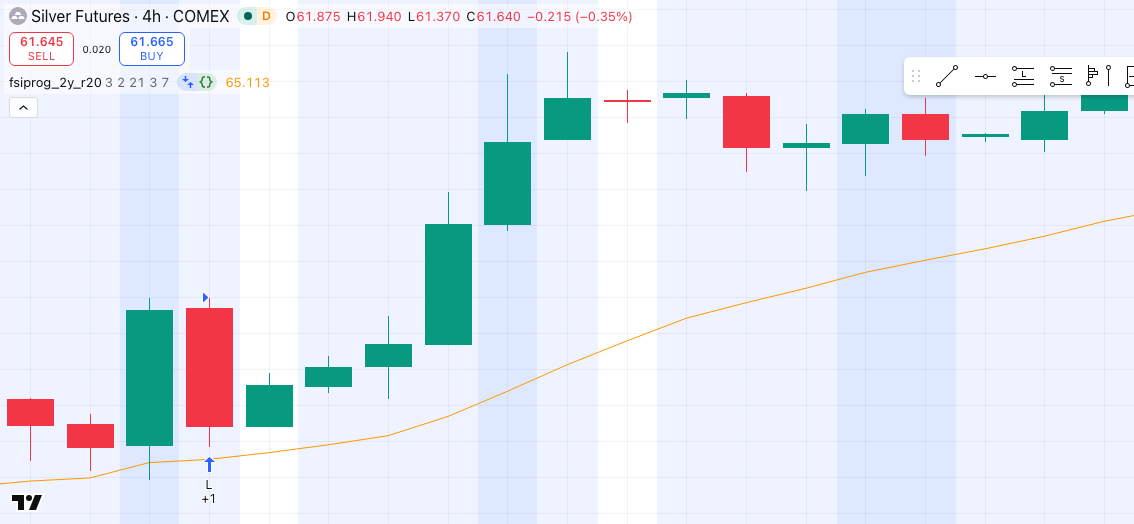
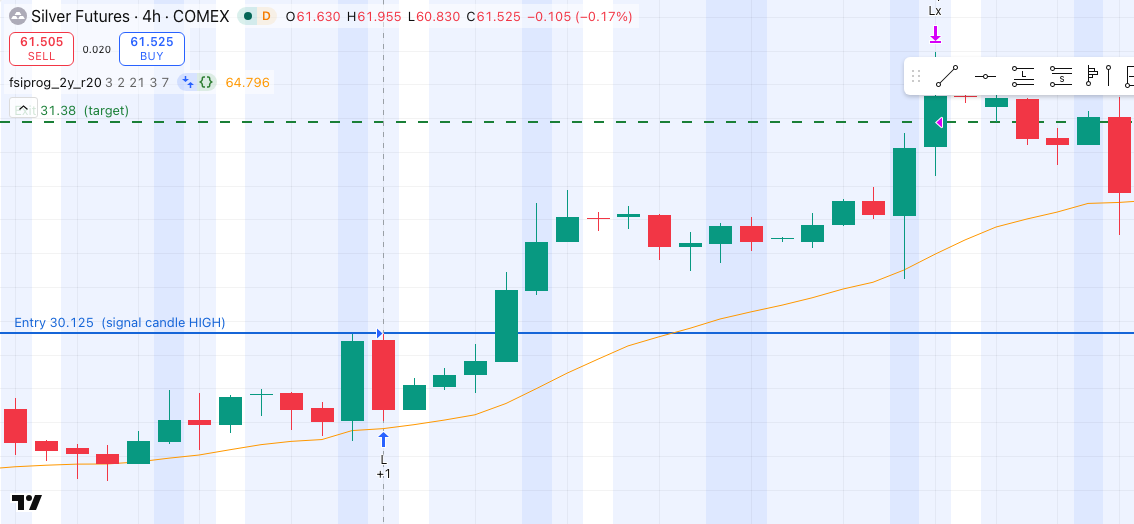
Annotate trade screenshots with entry/exit price lines + signal-candle tag; add entry-mechanics explanation

diff --git a/session-futures.html b/session-futures.html
@@ -110,10 +110,11 @@
 <p class="sub">Continuous futures have no clean second data feed (each vendor stitches rollovers differently), so this 2-engine test is a robustness check, not an exact match — unlike the spot/daily strategy, which agreed within 15%. The fact that so much sits on the break-even line is itself the verdict.</p>
 <table><thead><tr><th>Contract</th><th>Engine C PF</th><th>Engine C trades</th><th>Engine A PF</th><th>Engine A trades</th><th>Both&gt;1?</th></tr></thead><tbody><tr><td class="m">Silver</td><td class="pf p5">2.30</td><td>68</td><td class="pf p5">1.56</td><td>73</td><td>✓</td></tr><tr><td class="m">Soybean Oil</td><td class="pf p5">1.98</td><td>3</td><td class="pf p1">0.77</td><td>97</td><td>✗</td></tr><tr><td class="m">E-mini Nasdaq 100</td><td class="pf p5">1.87</td><td>81</td><td class="pf p3">1.29</td><td>93</td><td>✓</td></tr><tr><td class="m">Gasoline</td><td class="pf p5">1.84</td><td>75</td><td class="pf p3">1.02</td><td>81</td><td>✓</td></tr><tr><td class="m">E-mini S&P 500</td><td class="pf p3">1.10</td><td>60</td><td class="pf p5">1.56</td><td>96</td><td>✓</td></tr><tr><td class="m">Cocoa</td><td class="pf na">0.00</td><td>3</td><td class="pf p4">1.39</td><td>43</td><td>✗</td></tr><tr><td class="m">Sugar</td><td class="pf p4">1.39</td><td>54</td><td class="pf p2">0.98</td><td>64</td><td>✗</td></tr><tr><td class="m">Natural Gas</td><td class="pf p3">1.07</td><td>76</td><td class="pf p4">1.38</td><td>76</td><td>✓</td></tr><tr><td class="m">E-mini Russell 2000</td><td class="pf p3">1.10</td><td>88</td><td class="pf p4">1.33</td><td>96</td><td>✓</td></tr><tr><td class="m">Soybeans</td><td class="pf p1">0.65</td><td>67</td><td class="pf p4">1.31</td><td>81</td><td>✗</td></tr><tr><td class="m">Gold</td><td class="pf p3">1.15</td><td>59</td><td class="pf p3">1.26</td><td>62</td><td>✓</td></tr><tr><td class="m">Aussie</td><td class="pf p2">0.91</td><td>79</td><td class="pf p3">1.26</td><td>88</td><td>✗</td></tr><tr><td class="m">Canadian $</td><td class="pf p3">1.17</td><td>73</td><td class="pf p3">1.26</td><td>82</td><td>✓</td></tr><tr><td class="m">Platinum</td><td class="pf p2">0.93</td><td>81</td><td class="pf p3">1.22</td><td>83</td><td>✗</td></tr><tr><td class="m">Cotton</td><td class="pf p1">0.65</td><td>20</td><td class="pf p3">1.22</td><td>60</td><td>✗</td></tr><tr><td class="m">Heating Oil</td><td class="pf p3">1.20</td><td>82</td><td class="pf p1">0.74</td><td>85</td><td>✗</td></tr><tr><td class="m">Wheat</td><td class="pf p3">1.19</td><td>80</td><td class="pf p3">1.11</td><td>70</td><td>✓</td></tr><tr><td class="m">Copper</td><td class="pf p2">0.98</td><td>80</td><td class="pf p3">1.12</td><td>86</td><td>✗</td></tr><tr><td class="m">Yen</td><td class="pf p2">0.95</td><td>62</td><td class="pf p3">1.11</td><td>68</td><td>✗</td></tr><tr><td class="m">Swiss Franc</td><td class="pf p1">0.87</td><td>74</td><td class="pf p3">1.09</td><td>86</td><td>✗</td></tr><tr><td class="m">Euro</td><td class="pf p3">1.08</td><td>67</td><td class="pf p3">1.00</td><td>75</td><td>✗</td></tr><tr><td class="m">E-mini Dow</td><td class="pf p3">1.07</td><td>70</td><td class="pf p3">1.02</td><td>89</td><td>✓</td></tr><tr><td class="m">Coffee</td><td class="pf p1">0.75</td><td>44</td><td class="pf p3">1.05</td><td>67</td><td>✗</td></tr><tr><td class="m">Corn</td><td class="pf p1">0.76</td><td>71</td><td class="pf p2">0.98</td><td>70</td><td>✓</td></tr><tr><td class="m">Oats</td><td class="pf p1">0.83</td><td>47</td><td class="pf p2">0.90</td><td>61</td><td>✓</td></tr><tr><td class="m">Brent</td><td class="pf p1">0.88</td><td>65</td><td class="pf p1">0.78</td><td>78</td><td>✓</td></tr><tr><td class="m">Soybean Meal</td><td class="pf p1">0.86</td><td>60</td><td class="pf p1">0.58</td><td>89</td><td>✓</td></tr><tr><td class="m">Palladium</td><td class="pf p1">0.57</td><td>60</td><td class="pf p1">0.78</td><td>68</td><td>✓</td></tr><tr><td class="m">NZ $</td><td class="pf p1">0.66</td><td>67</td><td class="pf p1">0.75</td><td>73</td><td>✓</td></tr><tr><td class="m">WTI Crude</td><td class="pf p1">0.73</td><td>56</td><td class="pf p1">0.73</td><td>82</td><td>✓</td></tr><tr><td class="m">Pound</td><td class="pf p1">0.53</td><td>90</td><td class="pf p1">0.66</td><td>101</td><td>✓</td></tr><tr><td class="m">Orange Juice</td><td class="pf na">0.00</td><td>0</td><td class="pf p1">0.60</td><td>61</td><td>✓</td></tr></tbody></table>
 <h2>📸 Trade verification (real TradingView screenshots)</h2>
-<p>Numbers are easy to mistrust, so here are <b>5 actual trades from the Engine C (TradingView) run on Silver</b> — captured straight off the chart, showing exactly where each entry and exit fired. They are pulled programmatically from TradingView's own strategy model (entry/exit price, time and the on-chart arrows), not redrawn by us. A mix of wins and losses, longs and shorts — nothing cherry-picked.</p>
+<p>Numbers are easy to mistrust, so here are <b>5 actual trades from the Engine C (TradingView) run on Silver</b> — captured straight off the chart, showing exactly where each entry and exit fired. They are pulled programmatically from TradingView's own strategy model (entry/exit price, time and the on-chart markers), not redrawn by us. A mix of wins and losses, longs and shorts — nothing cherry-picked.</p>
 <table class="ledg"><thead><tr><th>Trade</th><th>Entry date</th><th>Entry $</th><th>Exit date</th><th>Exit $</th><th>P/L (3% risk)</th><th>Move</th></tr></thead><tbody><tr><td class="d"><span class="pill lng">LONG</span><span class="pill win">WIN</span></td><td>Jul 02, 2024</td><td>30.125</td><td>Jul 05, 2024</td><td>31.38</td><td class="p3">+6,244</td><td>+4.15%</td></tr><tr><td class="d"><span class="pill sht">SHORT</span><span class="pill win">WIN</span></td><td>Feb 21, 2025</td><td>33.2</td><td>Feb 24, 2025</td><td>32.685</td><td class="p3">+5,084</td><td>+1.53%</td></tr><tr><td class="d"><span class="pill lng">LONG</span><span class="pill loss">LOSS</span></td><td>Oct 02, 2024</td><td>32.525</td><td>Oct 03, 2024</td><td>31.655</td><td class="p1">-4,382</td><td>-2.69%</td></tr><tr><td class="d"><span class="pill lng">LONG</span><span class="pill win">WIN</span></td><td>Feb 12, 2025</td><td>32.62</td><td>Feb 14, 2025</td><td>34.095</td><td class="p3">+7,342</td><td>+4.50%</td></tr><tr><td class="d"><span class="pill sht">SHORT</span><span class="pill loss">LOSS</span></td><td>Jan 24, 2025</td><td>31.115</td><td>Jan 29, 2025</td><td>31.69</td><td class="p1">-2,906</td><td>-1.87%</td></tr></tbody></table>
-<div class="note"><b>How to read each chart:</b> the <b>orange line</b> is the 4-hour 21-EMA. A trade only fires on a 3am/7am-PST session candle that retests and rejects the EMA with a dominant wick. The <b>arrow</b> marks the entry (a stop order at the wick, filled the next bar — no look-ahead); the second marker is the exit at the 2R target or the opposite-wick stop. Silver is the one contract both engines agree is profitable, so it is the fair one to inspect.</div>
-<div class="ev"><img src="img/silver_trade_0.png" alt="Silver trade 0"><div class="evcap"><div class="h"><span class="pill lng">LONG</span><span class="pill win">WIN</span> Long · WIN · +6,244 USD (+4.15%)</div>Entered <b>30.125</b> on the Jul 02, 2024 session candle (arrow at the EMA-21 retest), then price rallied to target and the position closed at <b>31.38</b> on Jul 05, 2024 — 18 bars held.</div></div><div class="ev"><img src="img/silver_trade_24.png" alt="Silver trade 24"><div class="evcap"><div class="h"><span class="pill sht">SHORT</span><span class="pill win">WIN</span> Short · WIN · +5,084 USD (+1.53%)</div>Entered <b>33.2</b> on the Feb 21, 2025 session candle (arrow at the EMA-21 retest), then price fell to target and the position closed at <b>32.685</b> on Feb 24, 2025 — 5 bars held.</div></div><div class="ev"><img src="img/silver_trade_9.png" alt="Silver trade 9"><div class="evcap"><div class="h"><span class="pill lng">LONG</span><span class="pill loss">LOSS</span> Long · LOSS · -4,382 USD (-2.69%)</div>Entered <b>32.525</b> on the Oct 02, 2024 session candle (arrow at the EMA-21 retest), then price reversed into the stop and the position closed at <b>31.655</b> on Oct 03, 2024 — 4 bars held.</div></div><div class="ev"><img src="img/silver_trade_22.png" alt="Silver trade 22"><div class="evcap"><div class="h"><span class="pill lng">LONG</span><span class="pill win">WIN</span> Long · WIN · +7,342 USD (+4.50%)</div>Entered <b>32.62</b> on the Feb 12, 2025 session candle (arrow at the EMA-21 retest), then price rallied to target and the position closed at <b>34.095</b> on Feb 14, 2025 — 10 bars held.</div></div><div class="ev"><img src="img/silver_trade_19.png" alt="Silver trade 19"><div class="evcap"><div class="h"><span class="pill sht">SHORT</span><span class="pill loss">LOSS</span> Short · LOSS · -2,906 USD (-1.87%)</div>Entered <b>31.115</b> on the Jan 24, 2025 session candle (arrow at the EMA-21 retest), then price reversed into the stop and the position closed at <b>31.69</b> on Jan 29, 2025 — 17 bars held.</div></div>
+<div class="note"><b>Where exactly does it enter?</b> At the <b>top of the signal candle for a long, the bottom for a short</b> — not the middle. The rule places a <b>buy-stop at the rejection candle's high</b> (long) or a <b>sell-stop at its low</b> (short), so you only get in if a <i>later</i> bar trades through that level and confirms the breakout (this is also what makes it look-ahead-free). We verified this against the raw candle data: every entry price equals the signal candle's high/low, give or take the one tick of slippage the backtest models — e.g. the long below entered at 30.125, exactly the signal candle's 30.12 high + 1 tick.</div>
+<div class="note"><b>How to read each chart:</b> <b>orange line</b> = 4-hour 21-EMA. The solid <b>blue line</b> is the real <b>entry price</b> (labelled, sitting on the signal candle's high/low); the dashed <b>green line</b> is the <b>target</b> and the dashed <b>red line</b> is the <b>stop</b>; the faint <b>dashed vertical</b> marks the signal candle. Ignore TradingView's small "L/S" arrow — it's a cosmetic glyph drawn on the <i>next</i> (fill) bar and floats at a fixed height, which is why it can look mid-candle; the blue line is the actual fill. Silver is the one contract both engines agree is profitable, so it is the fair one to inspect.</div>
+<div class="ev"><img src="img/silver_trade_0.png" alt="Silver trade 0"><div class="evcap"><div class="h"><span class="pill lng">LONG</span><span class="pill win">WIN</span> Long · WIN · +6,244 USD (+4.15%)</div>Entered at <b>30.125</b> — the blue line, sitting on the signal candle's high (the Jul 02, 2024 session candle, marked by the dashed vertical) — then price rallied to the target and the position closed at <b>31.38</b> on Jul 05, 2024, 18 bars later.</div></div><div class="ev"><img src="img/silver_trade_24.png" alt="Silver trade 24"><div class="evcap"><div class="h"><span class="pill sht">SHORT</span><span class="pill win">WIN</span> Short · WIN · +5,084 USD (+1.53%)</div>Entered at <b>33.2</b> — the blue line, sitting on the signal candle's low (the Feb 21, 2025 session candle, marked by the dashed vertical) — then price fell to the target and the position closed at <b>32.685</b> on Feb 24, 2025, 5 bars later.</div></div><div class="ev"><img src="img/silver_trade_9.png" alt="Silver trade 9"><div class="evcap"><div class="h"><span class="pill lng">LONG</span><span class="pill loss">LOSS</span> Long · LOSS · -4,382 USD (-2.69%)</div>Entered at <b>32.525</b> — the blue line, sitting on the signal candle's high (the Oct 02, 2024 session candle, marked by the dashed vertical) — then price reversed into the stop and the position closed at <b>31.655</b> on Oct 03, 2024, 4 bars later.</div></div><div class="ev"><img src="img/silver_trade_22.png" alt="Silver trade 22"><div class="evcap"><div class="h"><span class="pill lng">LONG</span><span class="pill win">WIN</span> Long · WIN · +7,342 USD (+4.50%)</div>Entered at <b>32.62</b> — the blue line, sitting on the signal candle's high (the Feb 12, 2025 session candle, marked by the dashed vertical) — then price rallied to the target and the position closed at <b>34.095</b> on Feb 14, 2025, 10 bars later.</div></div><div class="ev"><img src="img/silver_trade_19.png" alt="Silver trade 19"><div class="evcap"><div class="h"><span class="pill sht">SHORT</span><span class="pill loss">LOSS</span> Short · LOSS · -2,906 USD (-1.87%)</div>Entered at <b>31.115</b> — the blue line, sitting on the signal candle's low (the Jan 24, 2025 session candle, marked by the dashed vertical) — then price reversed into the stop and the position closed at <b>31.69</b> on Jan 29, 2025, 17 bars later.</div></div>
 <h2>⚠ Caveats</h2>
 <ul>
 <li><b>Each contract on its own session candle.</b> 4H bars open at different hours per exchange — CME 3am/7am, CBOT grains 5am/9am, and each ICE soft on its own (coffee 5/9, sugar 4/8, cocoa 6/10). Found empirically so every contract is genuinely tested.</li>
